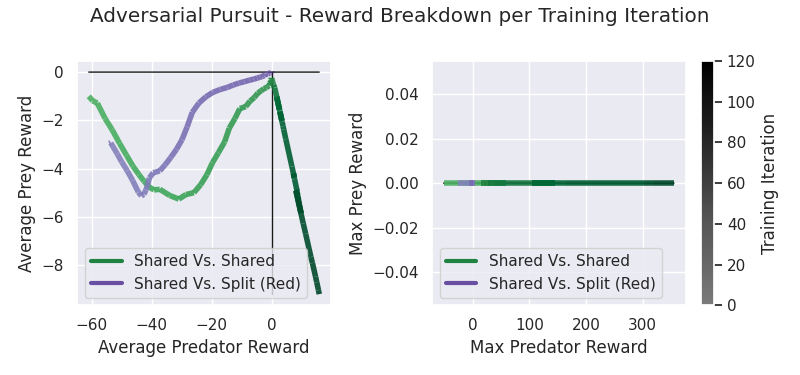
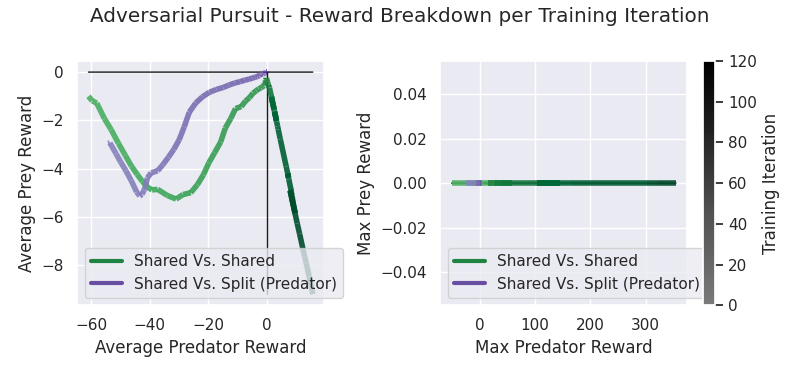
Corrected plot

diff --git a/lizards/analysis.py b/lizards/analysis.py
@@ -325,7 +325,7 @@ def comparative_reward_viz_axflip(fig, ax, team_1_group, team_2_group, dts=None,
 
     custom_lines = [Line2D([0], [0], color=legend_colors[0], lw=3),
                     Line2D([0], [0], color=legend_colors[1], lw=3)]
-    ax.legend(custom_lines, ['Shared Vs. Shared', 'Shared Vs. Split (Red)'], loc=loc)
+    ax.legend(custom_lines, ['Shared Vs. Shared', 'Shared Vs. Split (Predator)'], loc=loc)
 
 
 def main_plotting_fn(team_1, team_2, dtsl=None, dtsr=None, suptitle='None', symmetrical=True, team_1_name='Red',
@@ -454,21 +454,21 @@ def right_plotting_fn(team_1, team_2, dtsl=None, dtsr=None, suptitle='None', sta
 
 def main():
     # Battle shared shared plots
-    battle_shared_shared = get_all_result_data("result_data/battle_shared_shared_ms30/result.json")
-    # main_plotting_fn(battle_shared_shared['red'], battle_shared_shared['blue'],
-    #                  suptitle='Battle Env - Red:Shared, Blue:Shared')
-    #                  # savename='plots/Battle-ShSh.png', same_fig=False)
-
-    # Battle shared split plots
-    battle_shared_split = get_all_result_data("result_data/battle_shared_split_ms30/result.json")
-    # main_plotting_fn(battle_shared_split['red'], battle_shared_split['blue'],
-    #                  suptitle='Battle Env - Red:Split, Blue:Shared')
-    #                  # savename='plots/Battle-ShSp.png', same_fig=False)
-
-    main_plotting_fn_2configs(battle_shared_shared['red'], battle_shared_shared['blue'],
-                              battle_shared_split['red'], battle_shared_split['blue'],
-                              suptitle='Battle - Reward Breakdown per Training Iteration', same_fig=True,
-                              savename='plots/Battle-trio.png')
+    # battle_shared_shared = get_all_result_data("result_data/battle_shared_shared_ms30/result.json")
+    # # main_plotting_fn(battle_shared_shared['red'], battle_shared_shared['blue'],
+    # #                  suptitle='Battle Env - Red:Shared, Blue:Shared')
+    # #                  # savename='plots/Battle-ShSh.png', same_fig=False)
+    #
+    # # Battle shared split plots
+    # battle_shared_split = get_all_result_data("result_data/battle_shared_split_ms30/result.json")
+    # # main_plotting_fn(battle_shared_split['red'], battle_shared_split['blue'],
+    # #                  suptitle='Battle Env - Red:Split, Blue:Shared')
+    # #                  # savename='plots/Battle-ShSp.png', same_fig=False)
+    #
+    # main_plotting_fn_2configs(battle_shared_shared['red'], battle_shared_shared['blue'],
+    #                           battle_shared_split['red'], battle_shared_split['blue'],
+    #                           suptitle='Battle - Reward Breakdown per Training Iteration', same_fig=True,
+    #                           savename='plots/Battle-trio.png')
 
     # # Battle selfplay plots
     # battle_selfplay = get_result_data("result_data/battle_selfplay/result.json")
@@ -491,10 +491,10 @@ def main():
     #
     main_plotting_fn_2configs(ap_shared_shared['predator'], ap_shared_shared['prey'],
                               ap_shared_split['predator'], ap_shared_split['prey'],
-                              suptitle='Adversarial Pursuit - Reward Breakdown per Training Iteration', same_fig=True, symmetrical=False,
-                              team_1_name='Predator', team_2_name='Prey', dtsl=['max', 'mean'], dtsr=['max', 'mean'],
+                              suptitle='Adversarial Pursuit - Reward Breakdown per Training Iteration', same_fig=False, symmetrical=False,
+                              team_1_name='Predator', team_2_name='Prey',
                               loc='lower left',
-                              savename='plots/AP-trio.png')
+                              savename='plots/AP-duo.png')
 
 
 if __name__ == '__main__':
